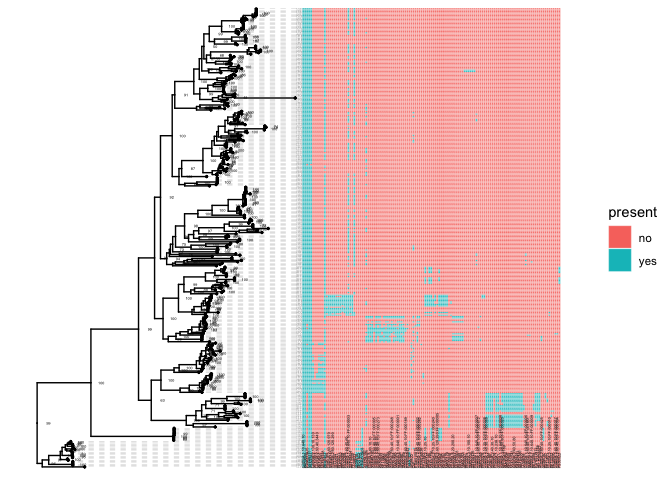
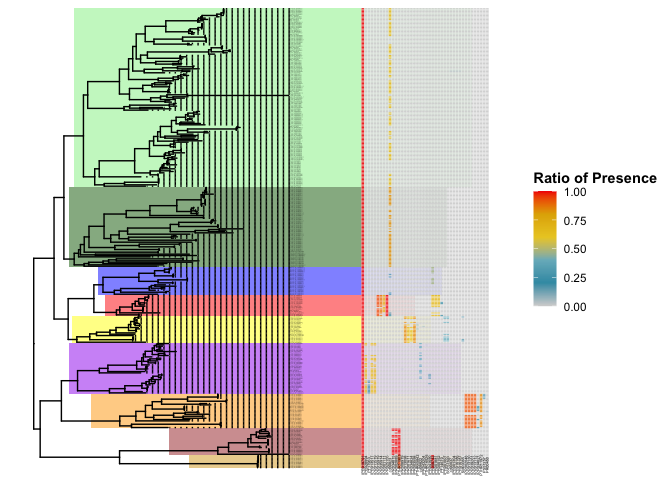
updating heatmap to have rop values and have hte clades highlighted

diff --git a/04_visualising_gene_tree.md b/04_visualising_gene_tree.md
@@ -2,7 +2,7 @@ Visualising Gene Tree
 ================
 
 The interproscan .tsv files results were annotated to match the
-annotation of the sequence IDs in step 01
+annotation of the sequence IDs in step 01. T
 
 ``` bash
 sed -i '' '/KAK/ s/^/A_cerv_/' acrop_cerv_ipr.tsv
@@ -12,9 +12,12 @@ sed -i '' '/XP_/ s/^/O_fave_/' orbi_fave_ipr.tsv
 ...
 ```
 
+Then each of the signal accessions(columns in the heatmap) were filtered
+
 We visualized the tree using a heat map to see, which domains were
 present in which protein sequences (look at supplementary data from the
-paper for a more detailed version of the heat map)
+paper for a more detailed version of the heat map). The heatmap has the
+ROP values (as calculated in 05)
 
 ![](04_visualising_gene_tree_files/figure-gfm/unnamed-chunk-4-1.png)<!-- -->
 
